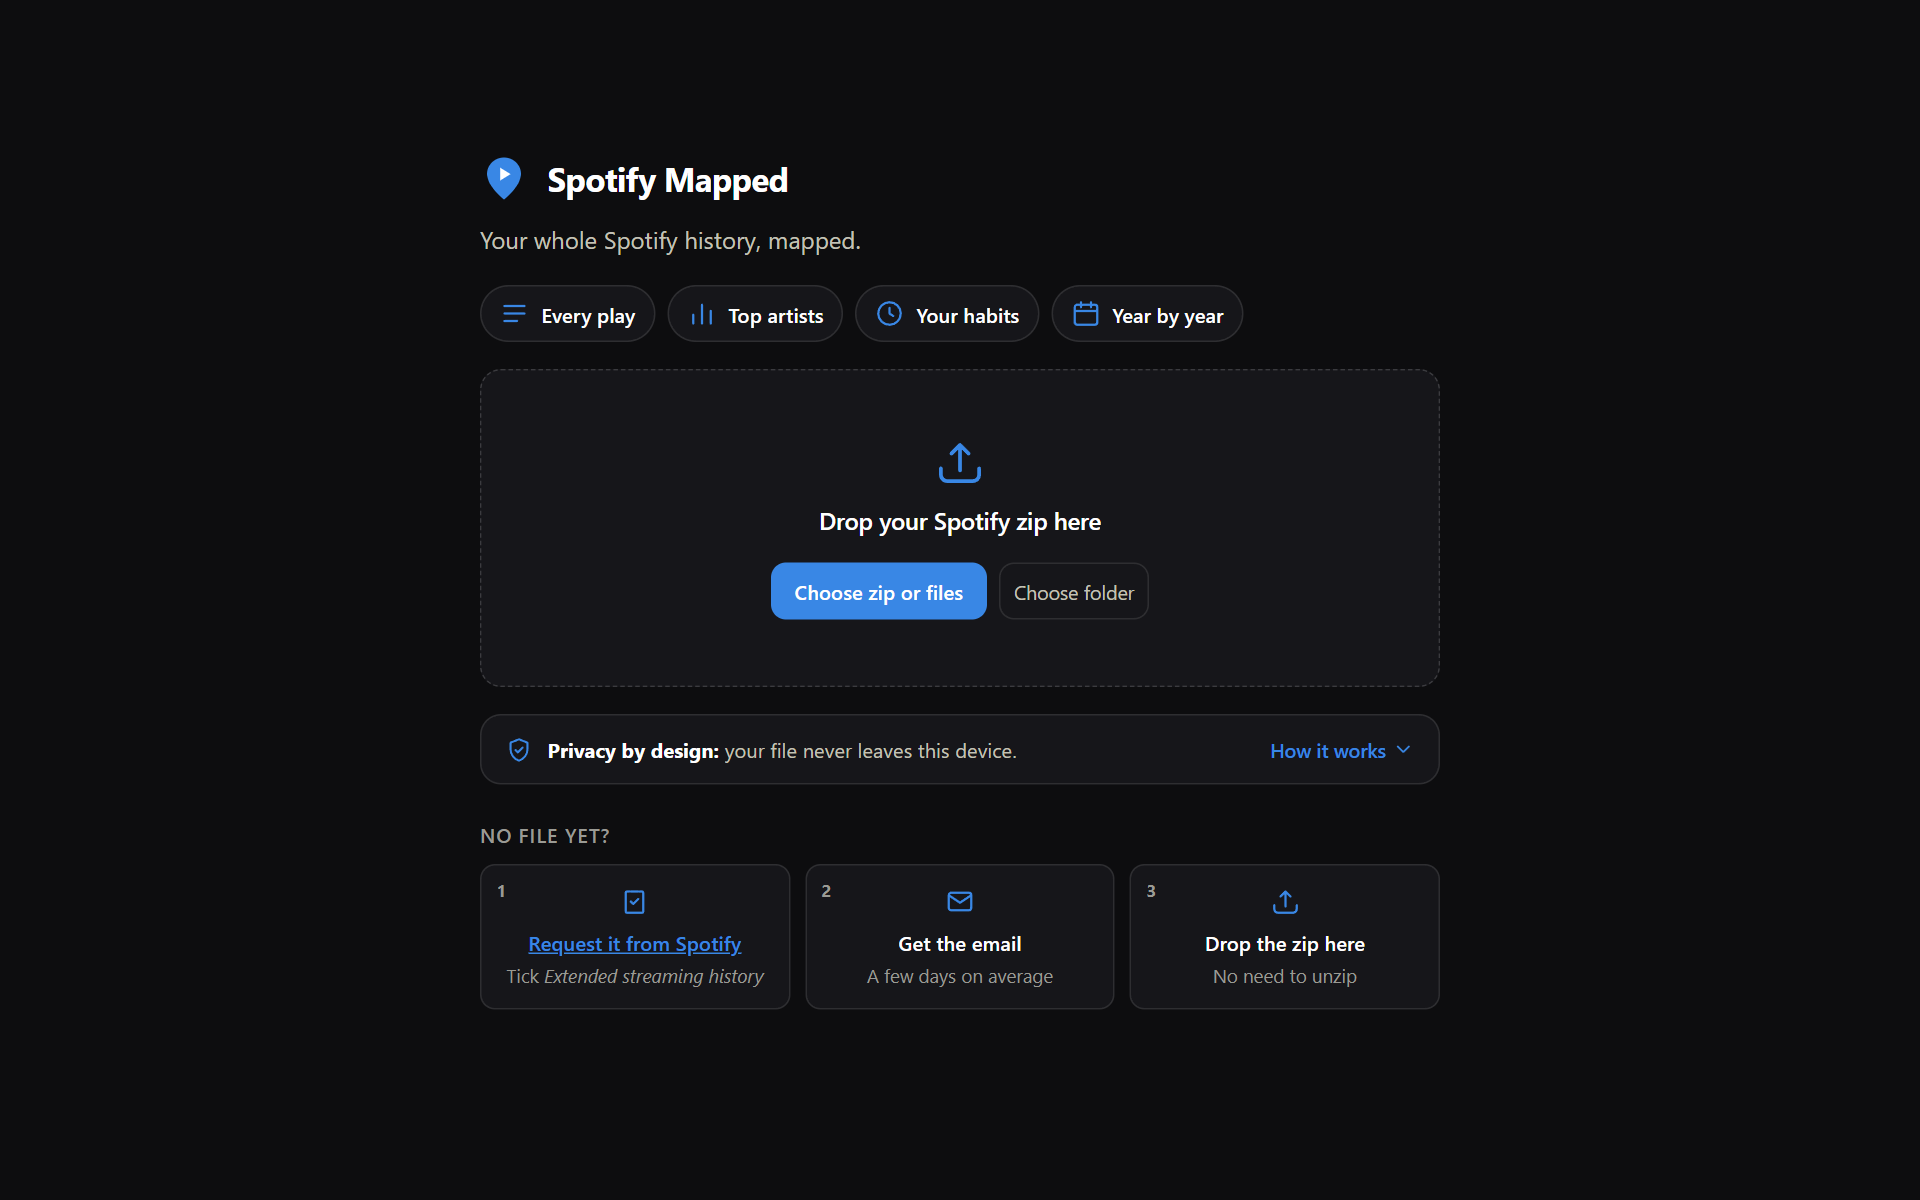
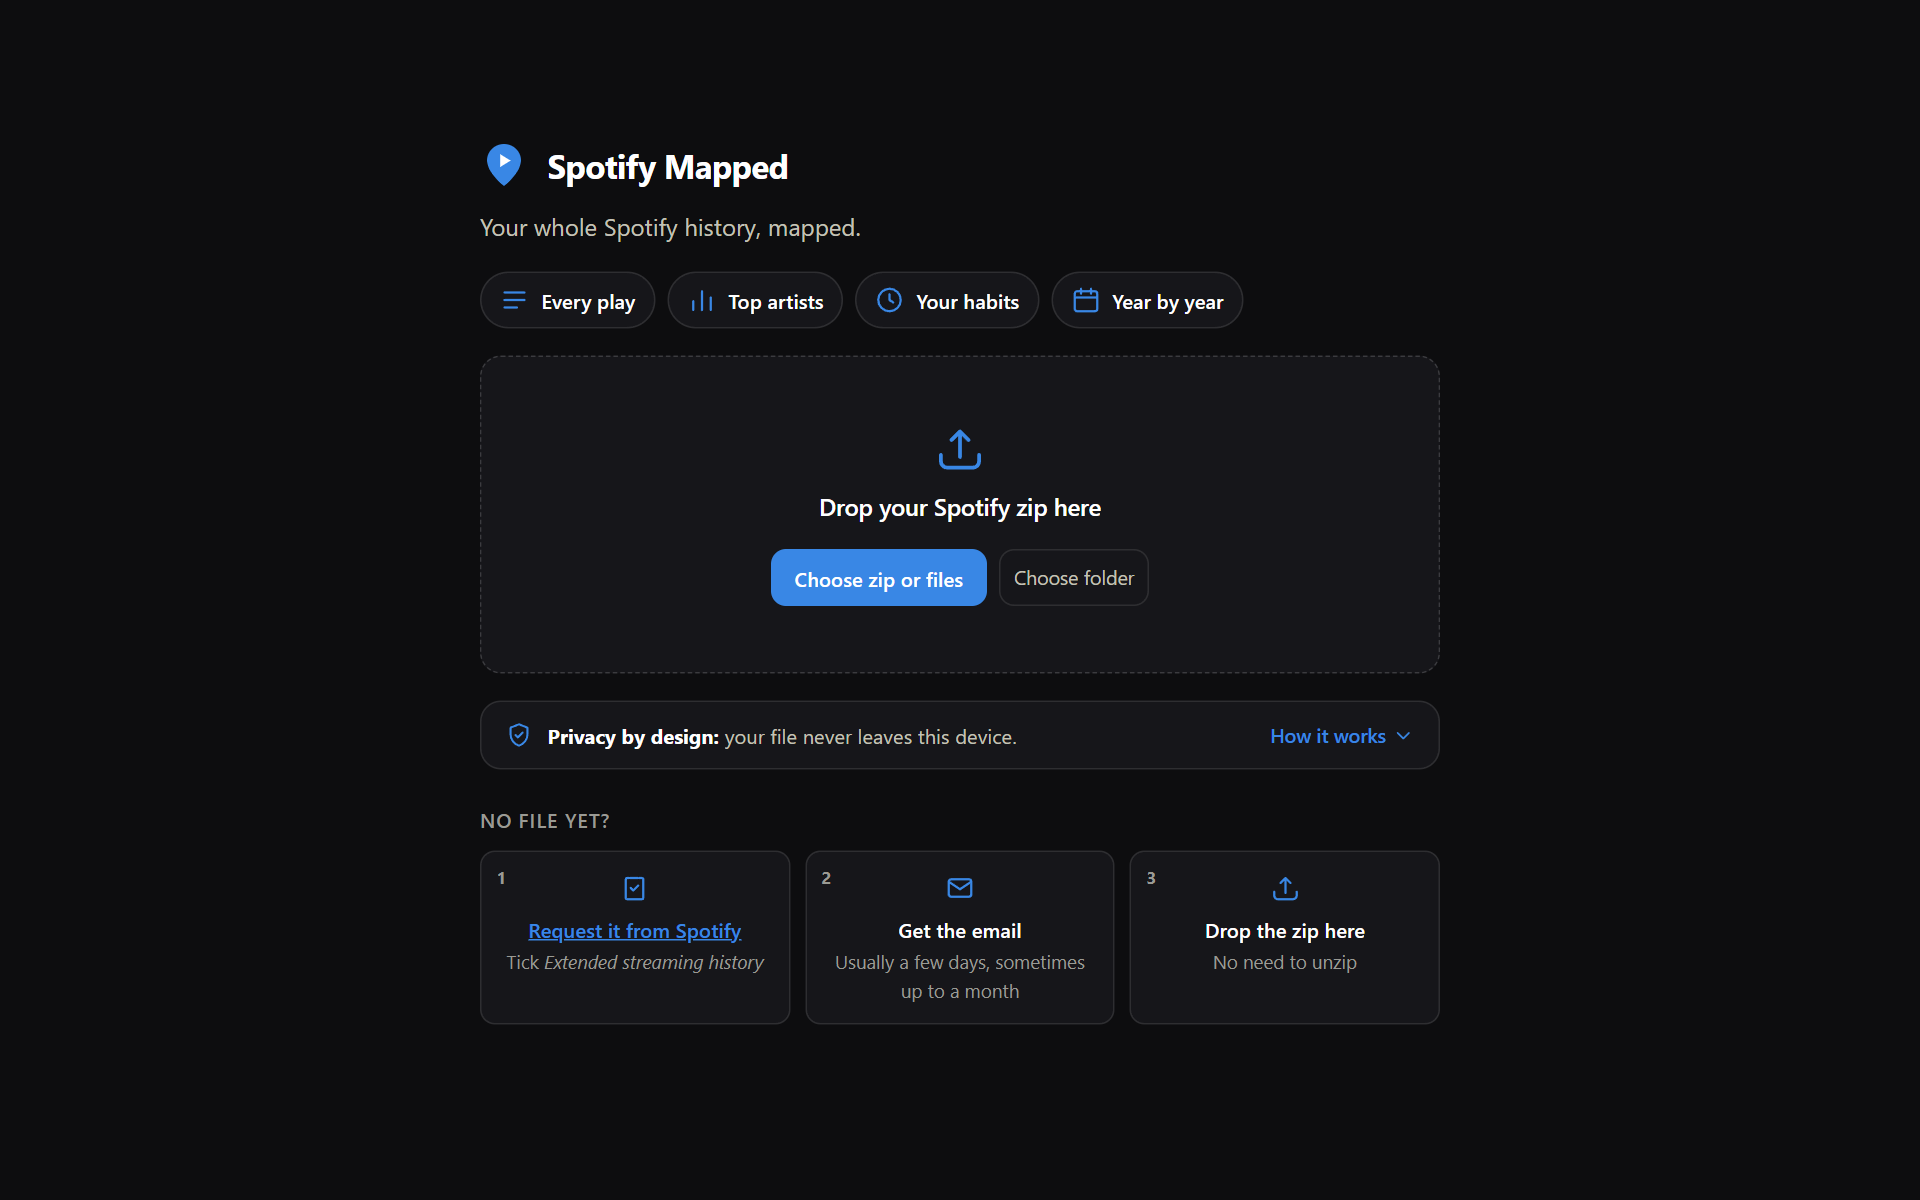
Say the export can take up to a month, not "a few days on average"
Guides and user reports consistently say the extended history can take
up to 30 days; Spotify's help pages give no figure. The start-screen
picture in the README is retaken to match.

diff --git a/src/views/Import.tsx b/src/views/Import.tsx
@@ -266,7 +266,7 @@ export function Import({
             <li>
               <Icon d={ICON.mail} />
               <b>Get the email</b>
-              <span>A few days on average</span>
+              <span>Usually a few days, sometimes up to a month</span>
             </li>
             <li>
               <Icon d={ICON.upload} />

diff --git a/README.md b/README.md
@@ -29,8 +29,8 @@ The pictures on this page use an invented listener, not anyone's real data.
    (`spotify.com/account/privacy`) and request **Extended streaming history**. The
    default "Account data" option only covers about the last year; the extended one goes
    back to the day you joined. You can request both.
-2. **Wait for the email.** Spotify sends a download link when the export is ready. Its
-   privacy policy reports answering data requests in about four days on average in 2025.
+2. **Wait for the email.** Spotify sends a download link when the export is ready. This
+   usually takes a few days, and sometimes up to a month.
 3. **Open [Spotify Mapped](https://isaacmwaura.github.io/spotify-mapped/) and add the file.** On a computer, drag the zip onto the page, or
    choose it. On a phone, tap *Choose file* and pick the zip. You can also choose the
    unzipped folder on a computer.
